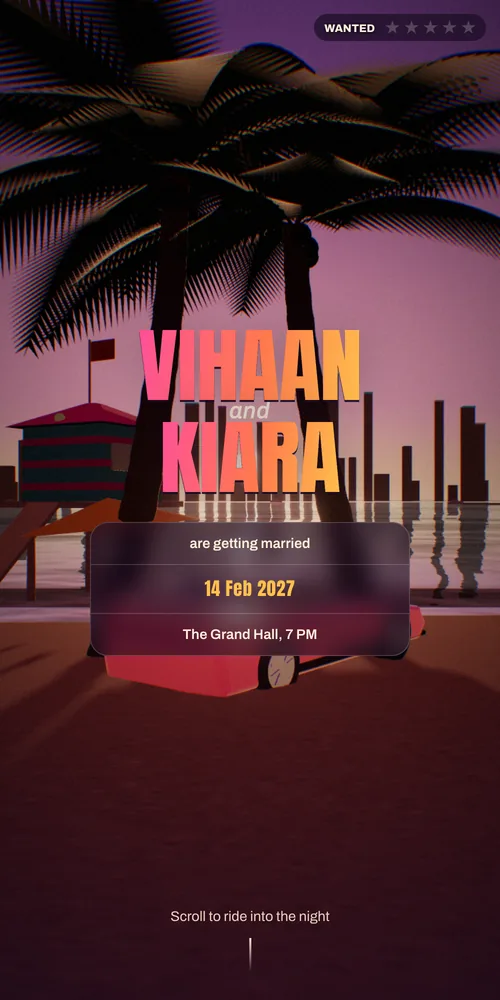
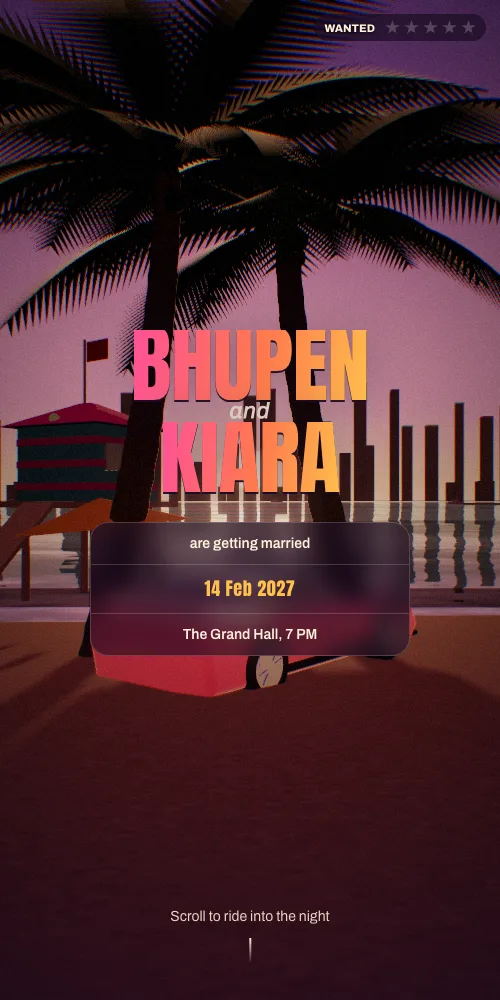
Website music: unmute YouTube songs that start muted; Vice Nights groom is Bhupen
Where a browser blocks sound, YouTube often autoplays the song muted. The player reported playing, so the site stopped retrying on taps and the song stayed silent, with the button reading "Pause our song". A song now counts as playing only once it is heard: until then every tap unmutes and plays it, and the button shows Play. Taps before YouTube's player is ready no longer throw.

Vice Nights sample couple is now Bhupen and Kiara (data, page, cover and share image).

diff --git a/public/microsites/vicenights/index.html b/public/microsites/vicenights/index.html
@@ -4,8 +4,8 @@
 <meta charset="utf-8">
 <meta name="viewport" content="width=device-width, initial-scale=1, viewport-fit=cover">
 <!-- SAMPLE -->
-<title>Vihaan &amp; Kiara, 14 February 2027, Goa · Wedding website</title>
-<meta name="description" content="Vihaan and Kiara are getting married on Sunday, 14 February 2027 at The Grand Hall, Goa. Every function, both families and the RSVP.">
+<title>Bhupen &amp; Kiara, 14 February 2027, Goa · Wedding website</title>
+<meta name="description" content="Bhupen and Kiara are getting married on Sunday, 14 February 2027 at The Grand Hall, Goa. Every function, both families and the RSVP.">
 <meta name="robots" content="noindex">
 <meta name="theme-color" content="#1a0b24">
 <link rel="preconnect" href="https://fonts.googleapis.com">
@@ -320,7 +320,7 @@ html.loading{overflow:hidden}
       <div class="sky-fb" aria-hidden="true"></div>
       <canvas id="gl" aria-hidden="true"></canvas>
       <div class="hero-copy">
-        <h1 class="names disp" id="h-names"><span class="fit" data-f="couple.0">Vihaan</span><span class="amp">and</span><span class="fit" data-f="couple.1">Kiara</span></h1>
+        <h1 class="names disp" id="h-names"><span class="fit" data-f="couple.0">Bhupen</span><span class="amp">and</span><span class="fit" data-f="couple.1">Kiara</span></h1>
         <p class="hero-sub"><span>are getting married</span><span><b><span data-f="main.day">14</span> <span data-f="main.mon">Feb</span> <span data-f="main.year">2027</span></b></span><span><span data-f="venueName">The Grand Hall</span>, <span data-f="main.clock">7 PM</span></span></p>
       </div>
       <div class="night"><p>The city is ours tonight</p><span id="nightLine">Keep scrolling. You're on the guest list.</span></div>
@@ -344,7 +344,7 @@ html.loading{overflow:hidden}
         <article class="panel a rv">
           <div class="ph" data-i="V"><span data-f-sample>Add your photo</span><img src="" data-f-src="photo" data-f-opt hidden alt="The couple"></div>
           <div class="cap">
-            <h3 data-f="couple.0">Vihaan</h3>
+            <h3 data-f="couple.0">Bhupen</h3>
             <p class="who" data-f="parents.0" data-f-opt>Son of Mrs. Sunita and Mr. Rakesh Mehra</p>
             <dl class="stats">
               <dt>Dance</dt><dd><i style="--v:62%"></i></dd>
@@ -368,7 +368,7 @@ html.loading{overflow:hidden}
           </div>
         </article>
         <article class="panel c rv">
-          <div class="quote" data-f-sample><p>"Ten years of side quests. This is the main one."</p><span>Vihaan, on proposing at the beach</span></div>
+          <div class="quote" data-f-sample><p>"Ten years of side quests. This is the main one."</p><span>Bhupen, on proposing at the beach</span></div>
           <div class="quote" hidden data-f-if="main.start"><p>Save the night</p><span><span data-f="main.weekday">Sunday</span>, <span data-f="main.dmy">14.02.27</span></span></div>
         </article>
       </div>
@@ -412,7 +412,7 @@ html.loading{overflow:hidden}
     <div class="wrap phone-row">
       <div class="rv">
         <h2 id="h-letter">A text from home</h2>
-        <p class="lede" data-f="note" data-f-opt>Two families who once lived a few streets apart are about to become one very loud household. We watched Vihaan and Kiara grow up, grow close and finally admit what the rest of us knew years ago.</p>
+        <p class="lede" data-f="note" data-f-opt>Two families who once lived a few streets apart are about to become one very loud household. We watched Bhupen and Kiara grow up, grow close and finally admit what the rest of us knew years ago.</p>
         <p class="lede" data-f-sample>This week would not be complete without you there, eating too much, dancing badly and blessing them loudly. Come as you are, and stay as long as the music does.</p>
         <p class="from" data-f-if="families.0">With love, <span data-f="families.0">the Mehra family</span> and <span data-f="families.1">the Kapoor family</span></p>
       </div>
@@ -512,7 +512,7 @@ html.loading{overflow:hidden}
   <section class="passed" data-track aria-labelledby="h-passed">
     <p class="big" aria-hidden="true">Mission passed</p>
     <p class="resp" aria-hidden="true">Respect +∞</p>
-    <h2 id="h-passed">With love, <span data-f="couple.0">Vihaan</span> &amp; <span data-f="couple.1">Kiara</span></h2>
+    <h2 id="h-passed">With love, <span data-f="couple.0">Bhupen</span> &amp; <span data-f="couple.1">Kiara</span></h2>
     <p class="date" data-f="main.dmy">14.02.27</p>
   </section>
 </main>

diff --git a/src/site/music.tsx b/src/site/music.tsx
@@ -52,7 +52,7 @@ export const unclock = (v: string) => {
 }
 
 // YouTube's player script, loaded once, for looping just the chosen part (its own loop goes back to 0:00).
-type YTPlayer = { getCurrentTime(): number; seekTo(s: number, ahead: boolean): void; playVideo(): void; pauseVideo(): void; loadVideoById(o: { videoId: string; startSeconds?: number; endSeconds?: number }): void; destroy(): void }
+type YTPlayer = { getCurrentTime(): number; seekTo(s: number, ahead: boolean): void; playVideo(): void; pauseVideo(): void; isMuted(): boolean; unMute(): void; getPlayerState(): number; loadVideoById(o: { videoId: string; startSeconds?: number; endSeconds?: number }): void; destroy(): void }
 type YTApi = { Player: new (el: HTMLElement, o: object) => YTPlayer; PlayerState: { ENDED: number } }
 let api: Promise<YTApi> | undefined
 const loadYT = () =>
@@ -188,17 +188,29 @@ function ClipPill({ id, start, end }: { id: string; start: number; end?: number 
     autoplay: true,
     width: 200,
     height: 200,
+    // Where the browser blocks sound, YouTube may start the song muted instead, so playing only counts once it is heard.
     onState: (st) => {
-      setOn(st === 1)
-      if (st === 1) setPlayed(true)
+      const heard = st === 1 && !player.current?.isMuted()
+      setOn(heard)
+      if (heard) setPlayed(true)
     },
   })
+  // Before YouTube's player is ready it has none of these, and the next tap tries again.
+  const play = () => {
+    player.current?.unMute?.()
+    player.current?.playVideo?.()
+    // Unmuting a song that was already playing muted brings no new state from YouTube.
+    if (player.current?.getPlayerState?.() === 1) {
+      setOn(true)
+      setPlayed(true)
+    }
+  }
   useEffect(() => {
-    // Browsers usually block sound until a tap, so until the song has played once every tap tries again; a tap on
-    // the music button itself is left to the button.
+    // Browsers usually block sound until a tap, so until the song has been heard every tap tries again (and unmutes
+    // it); a tap on the music button itself is left to the button.
     if (played) return
     const KEYS = ['pointerup', 'keydown']
-    const go = (e: Event) => !(e.target as Element | null)?.closest?.('[data-music]') && player.current?.playVideo()
+    const go = (e: Event) => !(e.target as Element | null)?.closest?.('[data-music]') && play()
     KEYS.forEach((k) => addEventListener(k, go))
     return () => KEYS.forEach((k) => removeEventListener(k, go))
   }, [played, player])
@@ -211,7 +223,7 @@ function ClipPill({ id, start, end }: { id: string; start: number; end?: number 
   return (
     <>
       <div ref={box} aria-hidden className="pointer-events-none fixed bottom-0 left-0 -z-10 size-[200px] opacity-0" />
-      <button type="button" data-music onClick={() => (on ? player.current?.pauseVideo() : player.current?.playVideo())} aria-pressed={on} className={pill}>
+      <button type="button" data-music onClick={() => (on ? player.current?.pauseVideo() : play())} aria-pressed={on} className={pill}>
         <span aria-hidden>{on ? '❚❚' : '♪'}</span> {on ? 'Pause our song' : 'Play our song'}
       </button>
     </>

diff --git a/src/site/designs.ts b/src/site/designs.ts
@@ -666,7 +666,7 @@ export const LOOKS: Look[] = [
     theme: { bg: '#1a0b24', raised: '#2b1240', accent: '#ff4f9a', text: '#fff1dc', soft: '#e9d3c2', display: '"Anton", Impact, sans-serif', script: CORMORANT },
     demo: {
       invocation: '|| Shri Ganeshaya Namah ||',
-      couple: ['Vihaan', 'Kiara'],
+      couple: ['Bhupen', 'Kiara'],
       families: ['The Mehra family', 'The Kapoor family'],
       parents: ['Son of Mrs. Sunita and Mr. Rakesh Mehra', 'Daughter of Mrs. Anjali and Mr. Vikram Kapoor'],
       city: 'Goa',
